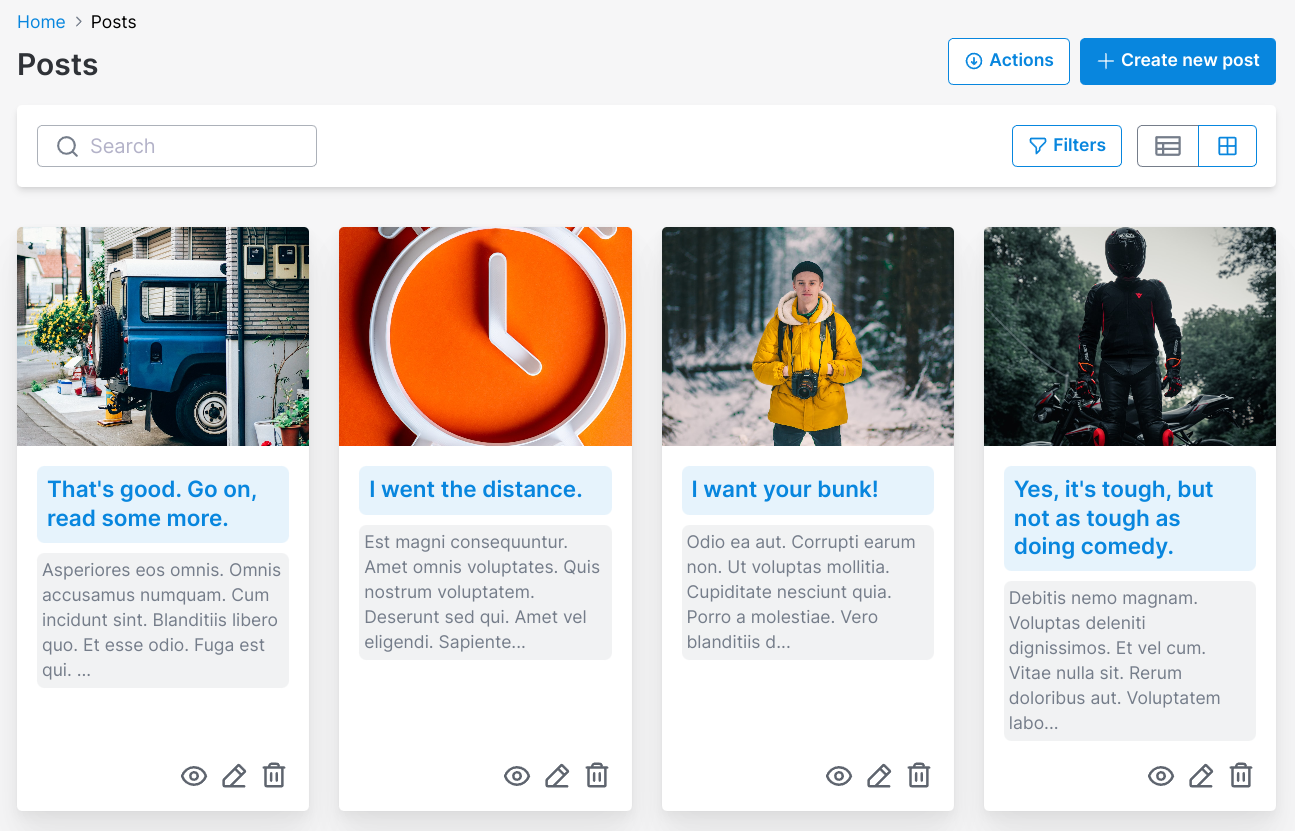
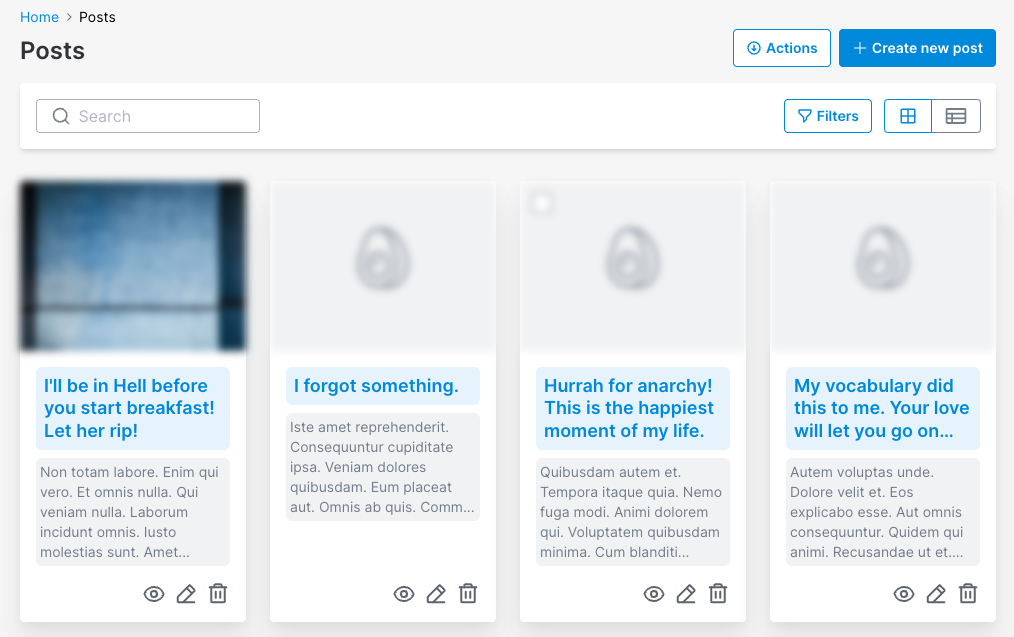
Document how to add custom styles to grid view card component

diff --git a/docs/3.0/grid-view.md b/docs/3.0/grid-view.md
@@ -42,7 +42,7 @@ end
 
 You may want to customize the card a little bit. That's possible using the `html` option.
 
-```ruby{13-30}
+```ruby{13-37}
 class Avo::Resources::Post < Avo::BaseResource
   self.grid_view = {
     card: -> do
@@ -68,6 +68,13 @@ class Avo::Resources::Post < Avo::BaseResource
           index: {
             wrapper: {
               classes: "bg-gray-50 rounded-md p-1"
+            }
+          }
+        },
+        cover: {
+          index: {
+            wrapper: {
+              classes: "blur-sm"
             }
           }
         }
